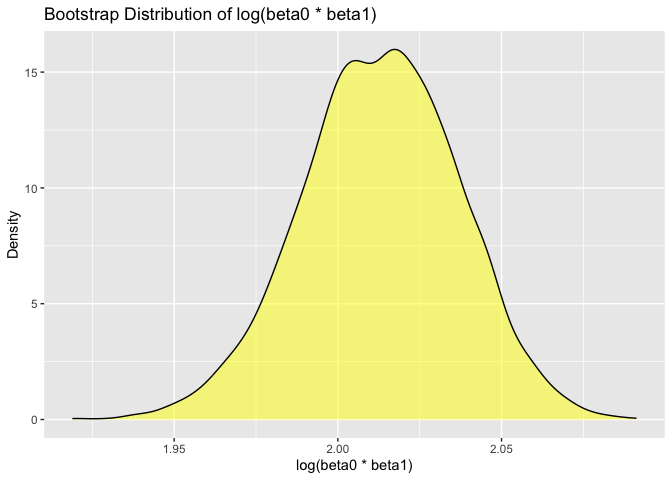
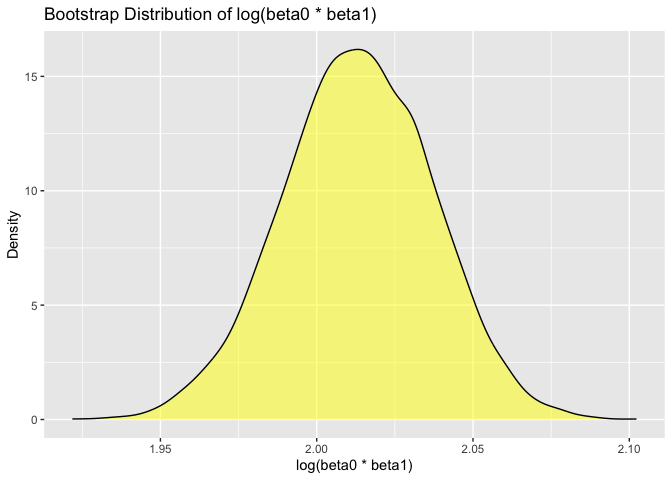
update

diff --git a/p8105_hw6_jc6422.md b/p8105_hw6_jc6422.md
@@ -3,6 +3,26 @@ p8105_hw6_jc6422
 Jianing Chen
 2024-11-19
 
+``` r
+library(tidyverse)
+```
+
+    ## ── Attaching core tidyverse packages ──────────────────────── tidyverse 2.0.0 ──
+    ## ✔ dplyr     1.1.4     ✔ readr     2.1.5
+    ## ✔ forcats   1.0.0     ✔ stringr   1.5.1
+    ## ✔ ggplot2   3.5.1     ✔ tibble    3.2.1
+    ## ✔ lubridate 1.9.3     ✔ tidyr     1.3.1
+    ## ✔ purrr     1.0.2     
+    ## ── Conflicts ────────────────────────────────────────── tidyverse_conflicts() ──
+    ## ✖ dplyr::filter() masks stats::filter()
+    ## ✖ dplyr::lag()    masks stats::lag()
+    ## ℹ Use the conflicted package (<http://conflicted.r-lib.org/>) to force all conflicts to become errors
+
+``` r
+library(modelr)
+set.seed(1)
+```
+
 ## Problem 1
 
 Import dataset
@@ -30,70 +50,98 @@ weather_df =
 Define bootstrap resampling function
 
 ``` r
-set.seed(123)
-boot_samples = map(1:5000, ~sample_n(weather_df, size = nrow(weather_df), replace = TRUE))
+boot_straps = 
+  tibble(strap_number = 1:5000,
+         strap_sample = rerun(5000, sample_frac(weather_df, replace = TRUE)))
 ```
+
+    ## Warning: `rerun()` was deprecated in purrr 1.0.0.
+    ## ℹ Please use `map()` instead.
+    ##   # Previously
+    ##   rerun(5000, sample_frac(weather_df, replace = TRUE))
+    ## 
+    ##   # Now
+    ##   map(1:5000, ~ sample_frac(weather_df, replace = TRUE))
+    ## This warning is displayed once every 8 hours.
+    ## Call `lifecycle::last_lifecycle_warnings()` to see where this warning was
+    ## generated.
 
 Perform linear regression on each bootstrap sample
 
 ``` r
-boot_results = map_dfr(
-  boot_samples,
-  ~ {
-    model = lm(tmax ~ tmin, data = .x)
-    glance_result = broom::glance(model) %>% 
-      select(r.squared)
-    coef_result = broom::tidy(model) %>%
-      filter(term != "(Intercept)") %>%
-      summarize(log_coef = log(estimate[1] * coef(model)[1]))
-    cbind(glance_result, coef_result)
-  }
-) 
+boot_results = boot_straps %>%
+  mutate(
+    models = map(strap_sample, ~lm(tmax ~ tmin, data = .x)),
+    results = map(models, ~{
+      glance_result = broom::glance(.x)
+      r_squared = glance_result$r.squared
+      
+      tidy_result= broom::tidy(.x)
+      coef_result = log(tidy_result$estimate[1] * tidy_result$estimate[2])
+      
+      tibble(
+        r_squared = r_squared,
+        coef_result = coef_result
+      )
+    })
+  ) %>%
+  select(strap_number,results) %>%
+  unnest(results)
 ```
 
 Compute 2.5% and 97.5% quantiles
 
 ``` r
-quantiles = quantile(boot_results$r.squared, probs = c(0.025, 0.975))
-quantiles
+summary = boot_results %>%
+  summarize(
+    r_squared_mean = mean(r_squared),
+    r_squared_sd = sd(r_squared),
+    r_squared_ci_lower = quantile(r_squared, 0.025),
+    r_squared_ci_upper = quantile(r_squared, 0.975),
+    log_coef_mean = mean(coef_result),
+    log_coef_sd = sd(coef_result),
+    log_coef_ci_lower = quantile(coef_result, 0.025),
+    log_coef_ci_upper = quantile(coef_result, 0.975)
+  ) 
+summary
 ```
 
-    ##      2.5%     97.5% 
-    ## 0.8945701 0.9271042
+    ## # A tibble: 1 × 8
+    ##   r_squared_mean r_squared_sd r_squared_ci_lower r_squared_ci_upper
+    ##            <dbl>        <dbl>              <dbl>              <dbl>
+    ## 1          0.911      0.00858              0.894              0.927
+    ## # ℹ 4 more variables: log_coef_mean <dbl>, log_coef_sd <dbl>,
+    ## #   log_coef_ci_lower <dbl>, log_coef_ci_upper <dbl>
 
-``` r
-logcoef_quantiles = quantile(boot_results$log_coef, probs = c(0.025, 0.975))
-logcoef_quantiles
-```
+The CI for R^squared is (0.894, 0.927)
 
-    ##     2.5%    97.5% 
-    ## 1.964166 2.058364
+The CI for log(beta0\*beta1) is (1.965,2.059)
 
 Plot the distributions
 
 ``` r
 boot_results %>%
-  ggplot(aes(x = r.squared)) +
+  ggplot(aes(x = r_squared)) +
   geom_density(fill = "blue", alpha = 0.5) +
   labs(title = "Bootstrap Distribution of R-Squared", x = "R-Squared", y = "Density")
 ```
 
-![](p8105_hw6_jc6422_files/figure-gfm/unnamed-chunk-6-1.png)<!-- -->
+![](p8105_hw6_jc6422_files/figure-gfm/unnamed-chunk-5-1.png)<!-- -->
 
 This plot shows the distribution of R^2, which is approximately normal.
-The range is narrow.
+The range is narrow. The peak is around 0.91.
 
 ``` r
 boot_results %>%
-  ggplot(aes(x = log_coef)) +
+  ggplot(aes(x = coef_result)) +
   geom_density(fill = "yellow", alpha = 0.5) +
   labs(title = "Bootstrap Distribution of log(beta0 * beta1)", x = "log(beta0 * beta1)", y = "Density")
 ```
 
-![](p8105_hw6_jc6422_files/figure-gfm/unnamed-chunk-7-1.png)<!-- -->
+![](p8105_hw6_jc6422_files/figure-gfm/unnamed-chunk-6-1.png)<!-- -->
 
 This plot shows the distribution of log(beta0 \* beta1), which is also
-approximately normal.
+approximately normal. The peak is around 2.02.
 
 ## Problem 2
 
@@ -257,7 +305,7 @@ city_model %>%
   )
 ```
 
-![](p8105_hw6_jc6422_files/figure-gfm/unnamed-chunk-13-1.png)<!-- -->
+![](p8105_hw6_jc6422_files/figure-gfm/unnamed-chunk-12-1.png)<!-- -->
 
 Based on this plot, Albuquerque, NM has the largest confidence interval,
 which suggests a high level of uncertainty, and New York, NY has the
@@ -383,7 +431,7 @@ ggplot(data2, aes(x = pred_bwt, y = resid_bwt)) +
   theme_minimal()
 ```
 
-![](p8105_hw6_jc6422_files/figure-gfm/unnamed-chunk-20-1.png)<!-- -->
+![](p8105_hw6_jc6422_files/figure-gfm/unnamed-chunk-19-1.png)<!-- -->
 
 Cross-validation for model comparison
 
@@ -427,4 +475,4 @@ cv_results %>%
   geom_violin()
 ```
 
-![](p8105_hw6_jc6422_files/figure-gfm/unnamed-chunk-23-1.png)<!-- -->
+![](p8105_hw6_jc6422_files/figure-gfm/unnamed-chunk-22-1.png)<!-- -->
